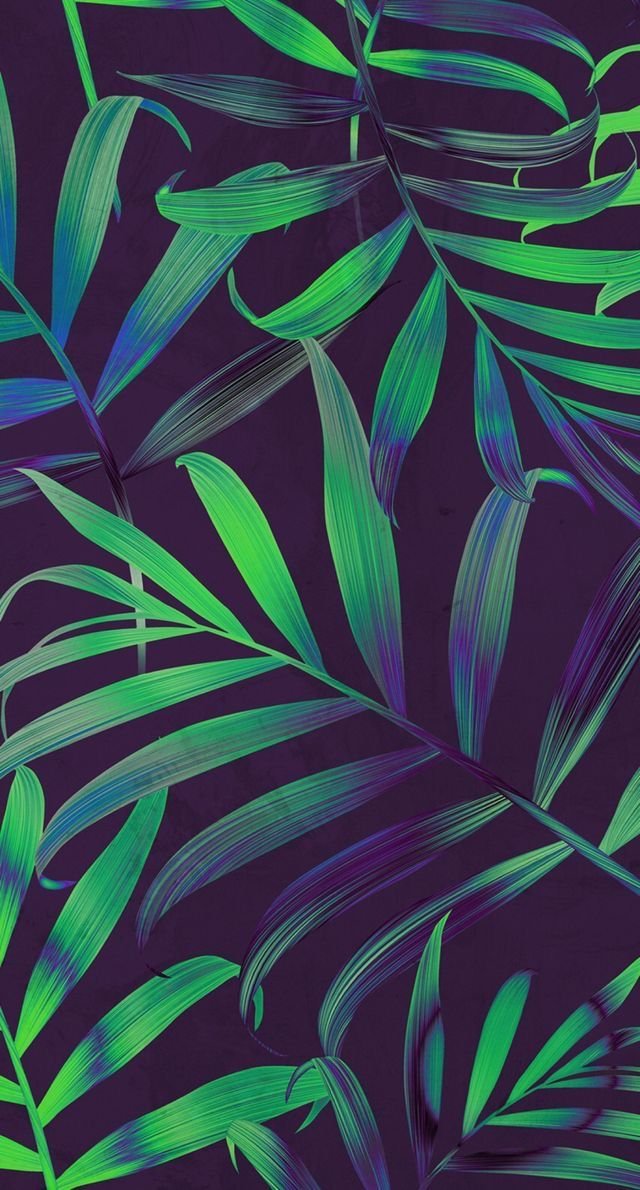
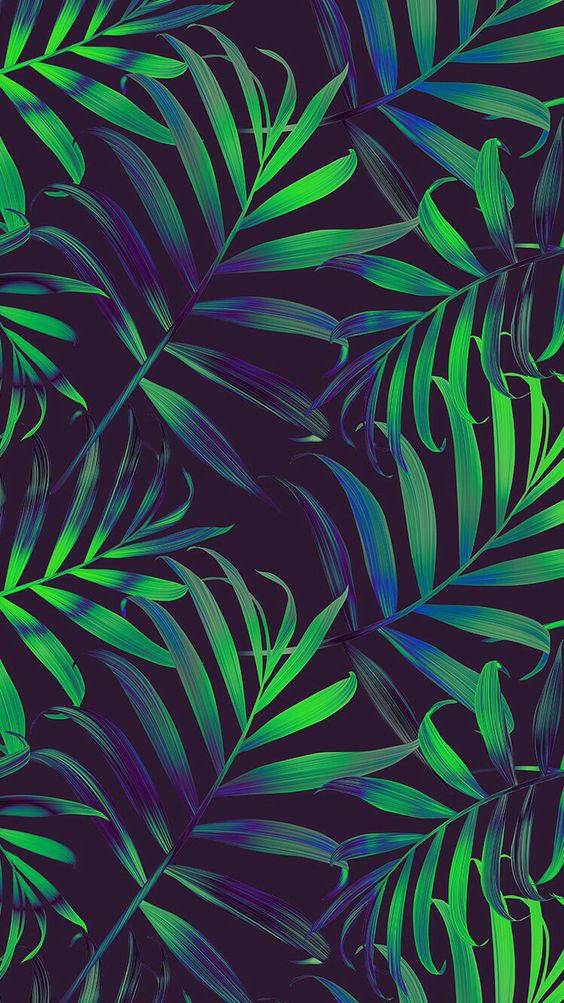
weird table mobile

diff --git a/public/css/table.css b/public/css/table.css
@@ -20,7 +20,7 @@
 }
 
 body {
-  background: linear-gradient(to bottom, rgba(0, 0, 0, 0.036) 100%, transparent), url(../images/background.jpg);
+  background: linear-gradient(to bottom, rgba(0, 0, 0, 0.036) 100%, transparent), url(../images/table.jpg);
   background-size: 100%;
   font-family: 'Lato-Regular', sans-serif;
 }
@@ -137,47 +137,10 @@ thead tr th {
   background-color: #fff;
 }
 
-/* The Modal (background) */
-.modal {
-  display: none;
-  position: fixed;
-  z-index: 1;
-  padding-top: 100px;
-  left: 0;
-  top: 0;
-  width: 100%;
-  height: 100%;
-  overflow: auto;
-  background-color: rgba(0, 0, 0, 0.74);
-}
 
-.modal-content {
-  background-color: #ffffff;
-  margin: auto;
-  padding: 20px;
-  border: 1px solid #888;
-  width: 30%;
-  border-radius: 3px;
-}
 
-/* The Close Button */
-.close {
-  color: #aaaaaa;
-  float: right;
-  font-size: 28px;
-  font-weight: bold;
-}
-
-.close:hover,
-.close:focus {
-  color: #000;
-  text-decoration: none;
-  cursor: pointer;
-}
-
-.filter {
+.action-button {
   width: 100px;
-  background: rgb(255, 196, 0);
   color: black;
   border: 0 none;
   border-radius: 1px;
@@ -185,14 +148,28 @@ thead tr th {
   padding: 10px 5px;
   font-family: "Lato-Regular";
   font-size: 15px;
-  position: absolute;
-  right: 10%;
-  text-transform: uppercase;
+  /* text-transform: uppercase; */
+  letter-spacing: 0.4px;
+  margin-top: 10px;
 }
 
-.filter:hover,
-.filter:focus {
-  box-shadow: 0 0 0 2px white, 0 0 0 3px rgb(58, 58, 58);
+.home {
+  margin-left: 10px;
+  position: relative;
+  background: rgb(255, 196, 0);
+}
+
+.filter {
+  margin-left: -1px;
+  position: relative;
+  background: rgb(255, 196, 0);
+}
+
+
+.action-button:hover,
+.action-button:focus {
+  box-shadow: 0 0 0 1px white, 0 0 0 1px rgb(58, 58, 58);
+  background: orange;
 }
 
 .copyright {
@@ -211,10 +188,27 @@ thead tr th {
 
 @media (max-width: 900px) {
 
+ 
   body {
-    background: #02241b;
+    background: linear-gradient(to bottom, rgba(0, 0, 0, 0.103) 100%, transparent), url(../images/mobile-table.jpg);
+    background-size: cover;
+		height: auto;
+    /* max-height: 800px !important; */
   }
 
+  .home {
+    margin-left: 0px;
+    right: 10%;
+    position: relative;
+    background: rgb(255, 196, 0);
+  }
+  
+  .filter {
+    margin-left: 0px;
+    position: relative;
+    right: 10%;
+    background: rgb(255, 196, 0);
+  }
   #div1 {
     width: 80%;
     margin-left: 10%;
@@ -229,6 +223,7 @@ thead tr th {
     font-family: "Lato-Regular";
     font-size: 2%;
   }
+
 
 
 }

diff --git a/public/views/table.html b/public/views/table.html
@@ -13,7 +13,8 @@
 <body>
 
   <div class="table-header">
-    <button type="button" name="filter" class="filter">Filter</button>
+      <button type="button" name="home" class= "home action-button"  onclick="history.back();">Home</button>
+    <button type="button" name="filter" class=" action-button filter">Filter</button>
   </div>
 
   <div id="div1"></div>
